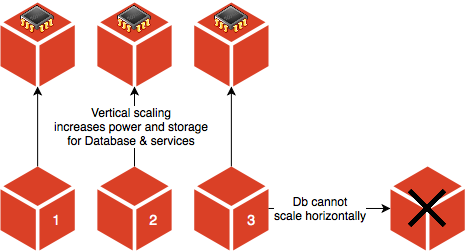
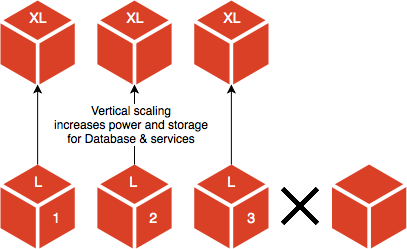
Update from feedback

Changed region(s): [[0.0, 0.0, 1.0, 1.0], [0.9435, 0.7028, 0.973, 0.7309]]

diff --git a/guides/v2.1/cloud/architecture/architecture-scaling.md b/guides/v2.1/cloud/architecture/architecture-scaling.md
@@ -13,16 +13,11 @@ Historically, the Pro architecture consisted of 3 nodes, each containing a full 
 
 ### Database tier scaling
 
-There are 3 nodes for the database and services, such as New Relic and Fastly. When the database (db) tier approaches capacity, the only way to scale is to increase the server size, such as boosting the CPU power and memory. Capacity is limited to the size of the node that is available.
+There are 3 nodes for the database and services. When the database (db) tier approaches capacity, the only way to scale is to increase the server size, such as boosting the CPU power and memory. Capacity is limited to the size of the node that is available. Because the database cluster is designed for high availability, you cannot scale horizontally in a reliable way with the technologies used.
 
 ![Database tier scaling]
 
-Further optimizing the database performance includes [scaling the web tier](#web-tier-scaling) and routing traffic. You can route traffic based on the node type. For example, you can serve PHP traffic on the database node or you can isolate the database node from the PHP traffic.
-
-Consider the following when scaling the database tier:
-
--  Only vertical scaling is available because of the limitations with the technologies used.
--  Non-master database nodes can not be used reliably. (Need to explain this?)
+Further optimizing performance includes routing traffic. You can route traffic based on the node type. For example, you can serve PHP traffic on the database node or you can isolate the database node from the PHP traffic.
 
 ### Web tier scaling
 
